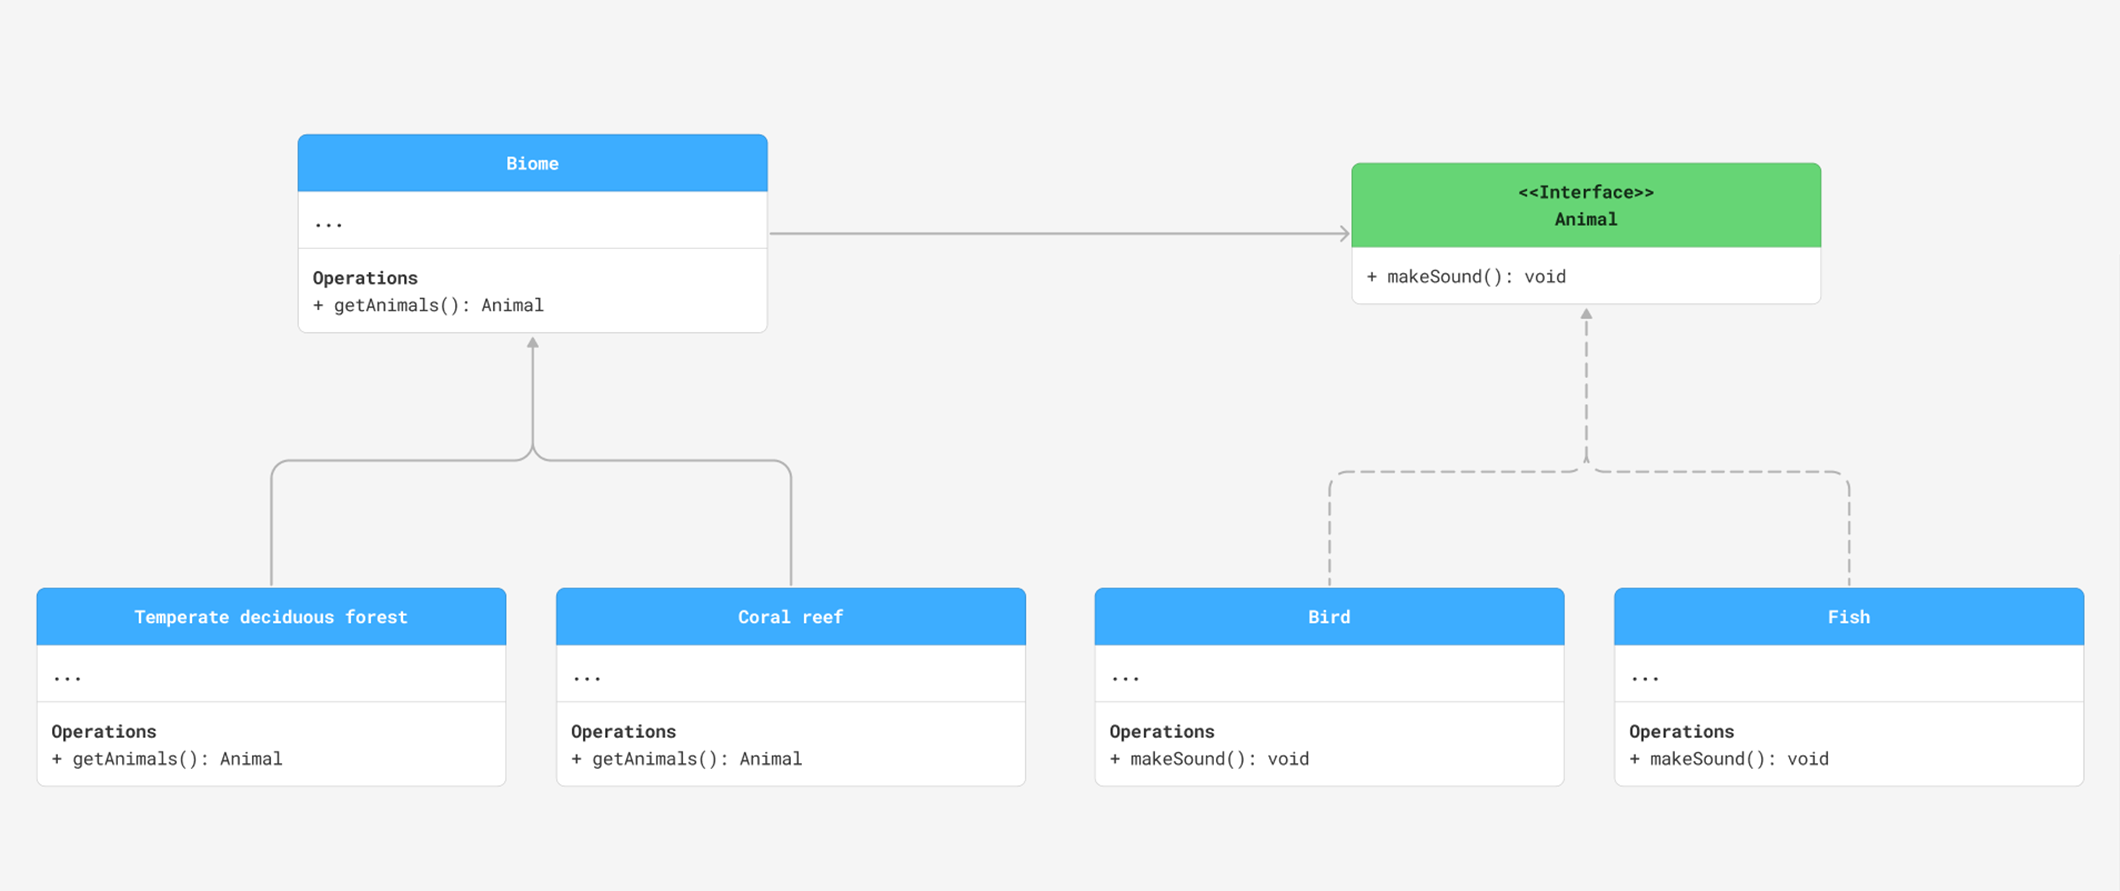
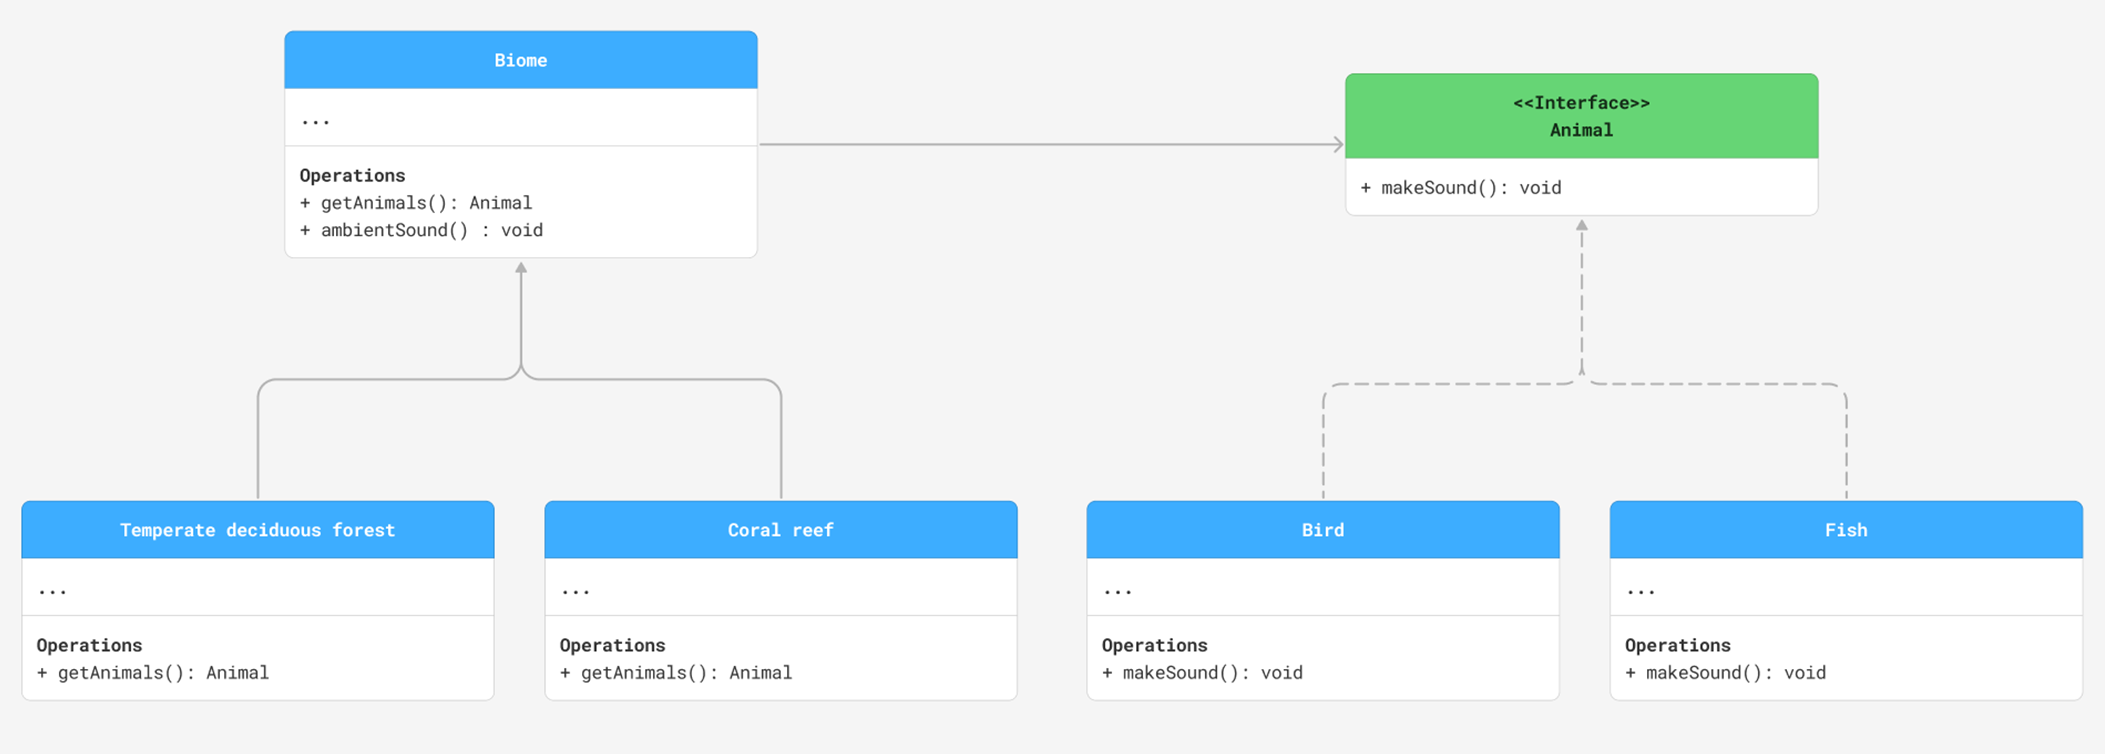
Adding ambientSound function to main.py and UML

diff --git a/main.py b/main.py
@@ -29,6 +29,9 @@ class Biome:
     @abstractmethod
     def getAnimals(self):
         pass
+    def ambientSound(self):
+        for animal in self.getAnimals():
+            animal.makeSound()
 
 #Concrete classes
 class TemperateDeciduousForest(Biome):
@@ -45,14 +48,12 @@ def main():
     #Forest
     print("Forest sounds:")
     forest = TemperateDeciduousForest()
-    for animal in forest.getAnimals():
-        animal.makeSound()
+    forest.ambientSound()
 
     #Coral reef
-    print("Coral reef:")
+    print("Coral reef sounds:")
     reef = CoralReef()
-    for animal in reef.getAnimals():
-        animal.makeSound()
+    reef.ambientSound()
 
 
 if __name__ == "__main__":
